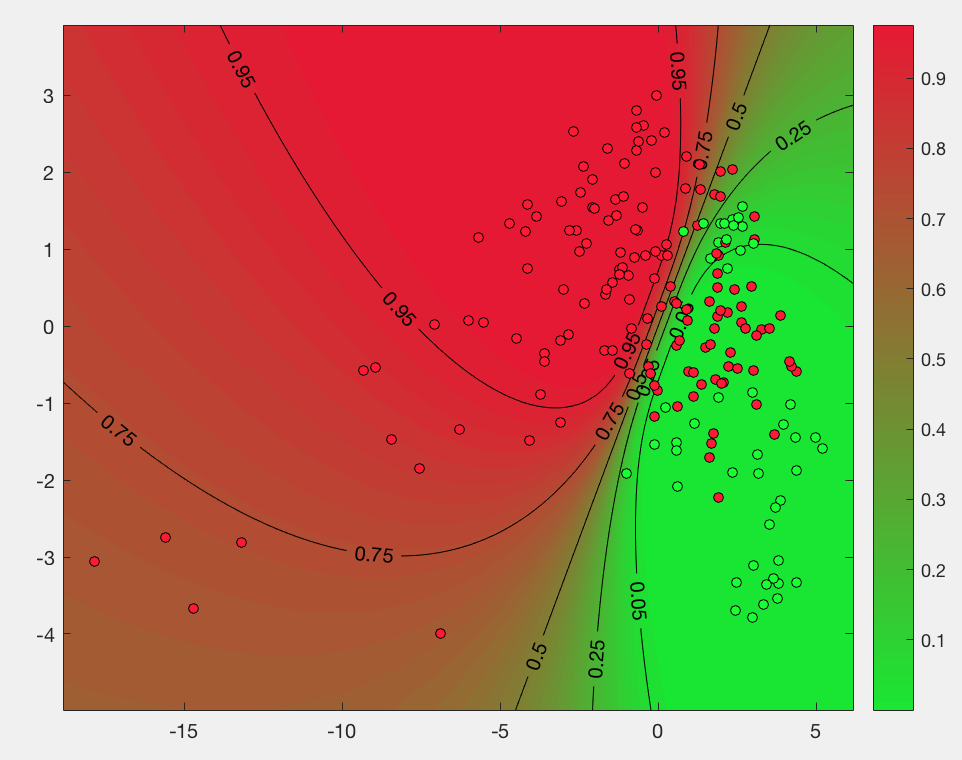
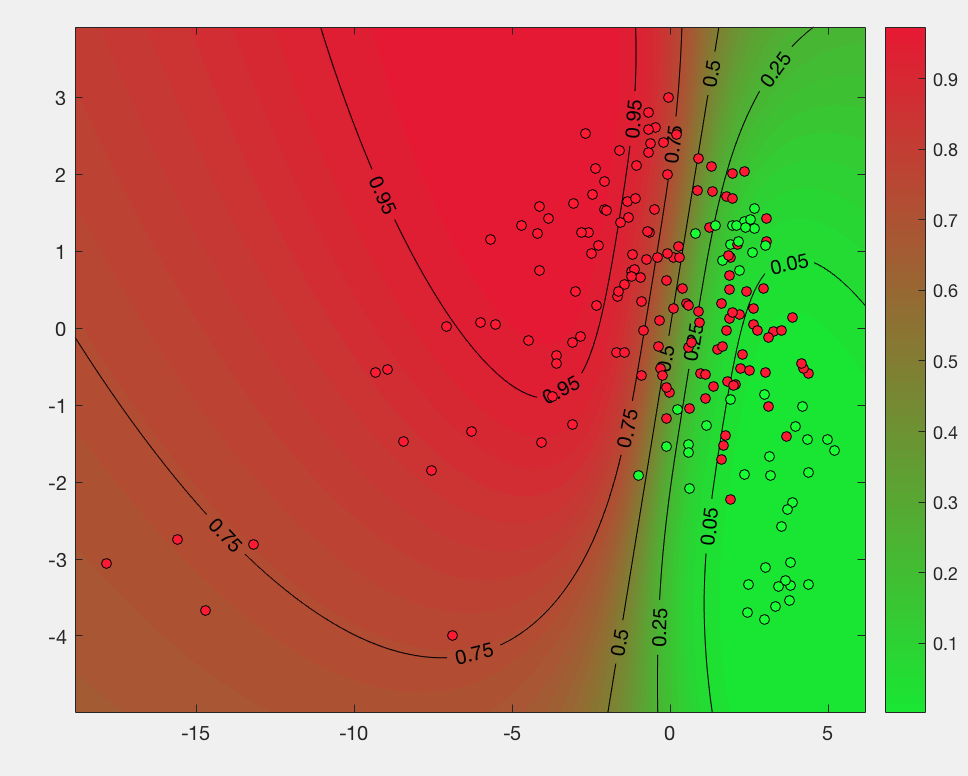
Finishes VB method + adds to CV + adds figure

diff --git a/methods/irls_cv.m b/methods/irls_cv.m
@@ -11,7 +11,7 @@ function irls_cv(dataset, is, fold)
 tt_ratio = 0.6;
 opt_names = {'unpenalized','L2'};
 l2_penalties = [0.01, 0.1, 1];
-n = 3+size(l2_penalties,2);
+n = 5+size(l2_penalties,2);
 f_measures = zeros(n,fold);
 roc_points = zeros(n,2);
 
@@ -40,11 +40,11 @@ end
 
 % Laplace approximation 
 laplax_prior.mean = zeros(is+1,1);
-laplax_prior.covmat = 1000*eye(is+1)+ 10*double([1:is+1]==11)'*double([1:is+1]==11) + 10*double([1:is+1]==14)'*double([1:is+1]==14);
+laplax_prior.covmat = 100*eye(is+1)+ 10*double([1:is+1]==11)'*double([1:is+1]==11) + 10*double([1:is+1]==14)'*double([1:is+1]==14);
 for f=1:fold
     [train_set,test_sest] = sample_train_test(dataset,tt_ratio);
-    [w,~] = laplax_normal(train_set,is,laplax_prior);
-    [fmeasure, roc] = cv_binary_classification(w, test_sest, 1, is);
+    [wL1,SL1] = laplax_normal(train_set,is,laplax_prior);
+    [fmeasure, roc] = cv_binary_classification(wL1, test_sest, 1, is);
     f_measures(iter,f) = fmeasure;
     roc_points(iter,:) = roc_points(iter,:) + [roc.TP,roc.FP]/fold;
 end
@@ -53,16 +53,36 @@ laplax_prior.covmat = 10*eye(is+1);
 iter = iter+1;
 for f=1:fold
     [train_set,test_sest] = sample_train_test(dataset,tt_ratio);
-    [w,~] = laplax_normal(train_set,is,laplax_prior);
+    [wL2,SL2] = laplax_normal(train_set,is,laplax_prior);
+    [fmeasure, roc] = cv_binary_classification(wL2, test_sest, 1, is);
+    f_measures(iter,f) = fmeasure;
+    roc_points(iter,:) = roc_points(iter,:) + [roc.TP,roc.FP]/fold;
+end
+iter = iter+1;
+% Variational Bayes (ELBO maximization)
+vb_prior.mean = zeros(is+1,1);
+vb_prior.covmat = 100*eye(is+1)+ 10*double([1:is+1]==11)'*double([1:is+1]==11) + 10*double([1:is+1]==14)'*double([1:is+1]==14);
+for f=1:fold
+    [train_set,test_sest] = sample_train_test(dataset,tt_ratio);
+    [w,~] = vb_normal(train_set,is,vb_prior,wL1,SL1,false);
+    [fmeasure, roc] = cv_binary_classification(w, test_sest, 1, is);
+    f_measures(iter,f) = fmeasure;
+    roc_points(iter,:) = roc_points(iter,:) + [roc.TP,roc.FP]/fold;
+end
+vb_prior.mean = zeros(is+1,1);
+vb_prior.covmat = 10*eye(is+1);
+iter = iter+1;
+for f=1:fold
+    [train_set,test_sest] = sample_train_test(dataset,tt_ratio);
+    [w,~] = vb_normal(train_set,is,vb_prior,wL2,SL2,false);
     [fmeasure, roc] = cv_binary_classification(w, test_sest, 1, is);
     f_measures(iter,f) = fmeasure;
     roc_points(iter,:) = roc_points(iter,:) + [roc.TP,roc.FP]/fold;
 end
 
-
 %% plots 
 figure('units','normalized','outerposition',[0 0 1 1])
-subplot(1,2,1); boxplot(f_measures','Labels',{'IRLS','RIDGE : 0.01','RIDGE = 0.1','RIDGE = 1','Laplace 1','Laplace 2'});
+subplot(1,2,1); boxplot(f_measures','Labels',{'IRLS','RIDGE : 0.01','RIDGE = 0.1','RIDGE = 1','Laplace 1','Laplace 2','VB 1','VB 2'});
 xlabel('Method');
 ylabel('F-measure statistics');
 title(strcat(num2str(fold),'-fold cross validation using F-measure'));
@@ -72,11 +92,10 @@ colors = jet(n);
 for i = 1:n
     plot(roc_points(i,2),roc_points(i,1),'o','MarkerSize',20, 'MarkerFaceColor',colors(i,:)); hold on;
 end
-
 axis([0 1 0 1]);
 xlabel('False Positive'); ylabel('True Positive');
 title('ROC curve');
-l = legend('IRLS','RIDGE, $\lambda_2 = 0.01$', 'RIDGE, $\lambda_2 = 0.1$','RIDGE, $\lambda_2 = 1$','Laplace 1','Laplace 2');
+l = legend('IRLS','RIDGE, $\lambda_2 = 0.01$', 'RIDGE, $\lambda_2 = 0.1$','RIDGE, $\lambda_2 = 1$','Laplace 1','Laplace 2','VB 1','VB 2');
 set(l,'Interpreter','latex');
 
 

diff --git a/methods/vb_normal.m b/methods/vb_normal.m
@@ -1,12 +1,76 @@
-function [wMap,Sn] = vb_normal(ds, is, prior)
+function [w,S] = vb_normal(ds, is, prior,wL,SL,plotflag)
 % <============ HEADER =============>
 % @brief    : computes the posterior approximation with Variational Bayes
-%             approach (assuming location scale prior)
+%             approach (assuming gaussian prior)
+%             approximating distribution : location-scale Gaussian 
 %             feature space is input space 
 % @params   : ds <- dataset
 %             is <- input vectors dimensionality
 %             prior <- {mean,covariance matrix} structure -- assuming
 %                       Gaussian prior for now 
+%             plotflag <- +1 for plot, 0 otherwise
 % @returns  : posterior distribution q
 % <============ HEADER =============>
 
+% Constants 
+n = size(ds,1);
+m = is+1;
+a = prior.mean;
+B = prior.covmat;
+sig = @(x) 1/(1+exp(-x));
+t   = ds(:,is+1);
+eps = 0.001;
+    % computes log(posterior)
+    function res = lpp(w)
+        y   = compute_output('logistic_sigmoid',w(1:is),w(is+1),ds(:,1:is),'linear');
+        res = -cross_entropy_loss_function(y,t) -0.5*m*log(2*pi*det(B)) - 0.5*(w-a)'*(B\(w-a));
+    end
+% computes p'/p (d/dtheta{log p})
+    function res = pP_o_p(x,w)
+        y       = compute_output('logistic_sigmoid',w(1:is),w(is+1),x(:,1:is),'linear');
+        res     = (-B\(w-a) + x'*(t-y));
+    end
+% computes d^2/dtheta(log p)
+    function res = pP2(x,w)
+       y = compute_output('logistic_sigmoid',w(1:is),w(is+1),x(:,1:is),'linear');
+       res = -x'*diag(y.*(1-y))*x - inv(B);
+    end
+
+% Initialize the location scale Gaussian approximation distribution 
+mu    = wL;
+Sigma = SL;
+
+% Optimization loop
+max_iter   = 10;
+num_sample = 100;
+phi = [ds(:,1:is),ones(n,1)];
+lr = 0.01;
+elbo = zeros(max_iter,1);
+for iter = 1:max_iter
+    samples = randn(m,num_sample);
+    dMu = zeros(m,1);
+    dSigma = zeros(m);
+    for i=1:num_sample
+       elbo(iter,1) = elbo(iter,1) - (1/num_sample) * (0.5*m*log(2*pi*det(Sigma*Sigma')) + 0.5*(samples(:,i)-mu)'*((Sigma*Sigma')\(samples(:,i)-mu))+ lpp(samples(:,i)));
+       dMu = dMu + pP_o_p(phi,mu + Sigma*samples(:,i))/num_sample;
+       dSigma = dSigma + (pP_o_p(phi,mu + Sigma*samples(:,i))*samples(:,i)')/num_sample;
+    end
+    mu = mu + lr*dMu;
+    Sigma = Sigma + 0.1*lr*(dSigma+inv(Sigma));
+    lr = lr * 0.99;
+end
+
+% ELBO plot
+if (plotflag)
+    figure;
+    plot(elbo(1:iter),'r-','LineWidth',2);
+    legend('ELBO');
+    title('ELBO stochastic maximization');
+end
+
+%% TODO : control over ELBOW
+w = mu;
+S = Sigma*Sigma';
+
+
+end

diff --git a/main.m b/main.m
@@ -18,31 +18,39 @@ ds = readtable(strcat(dataset_name,'.csv'));
 
 
 %% data visualization 
-visualize_data(ds, is);
+% visualize_data(ds, is);
 
 
 %% solution vizualisation
+
 % IRLS solution vizualisation 
 % ---------------------------
 % opt_up = struct('name','unpenalized','hp',[]);     % unpenalized IRLS
-% opt_L1 = struct('name','L1','hp',0.01);               % LASSO penalization
-% opt_L2 = struct('name','L2','hp',1);              % RIDGE penalization
+% opt_L1 = struct('name','L1','hp',0.01);            % LASSO penalization
+% opt_L2 = struct('name','L2','hp',1);               % RIDGE penalization
 % opt = opt_L1;
 % [w, prior, lc] = irls(ds, is, opt); 
 % visualize_solution(w(1:is), ds, is, lc, opt);
 % ---------------------------
+
 % ---------------------------
 % Bayesian learning and visualization
 % - - - - - - - - - - - - - - - - - -
+% defining a Gaussian prior 
+% prior.mean = zeros(is+1,1);
+% prior.covmat = 1*eye(is+1);%+ 10*double([1:is+1]==11)'*double([1:is+1]==11); + 10*double([1:is+1]==14)'*double([1:is+1]==14);
+
 % laplace approximation for posterior
 % - - - - - - - - - - - - - - - - - -
-% laplax_prior.mean = zeros(is+1,1);
-% laplax_prior.covmat = 10*eye(is+1);%+ 10*double([1:is+1]==11)'*double([1:is+1]==11) + 10*double([1:is+1]==14)'*double([1:is+1]==14);
-% [w,S] = laplax_normal(ds,is,laplax_prior);
-% visualize_pdb(ds,w,S,is)                  % Visualization  (predictive distribution)
+% [wL,SL] = laplax_normal(ds,is,prior);
+% visualize_pdb(ds,wL,SL,is)                  % Visualization  (predictive distribution)
 % - - - - - - - - - - - - - - - - - -
-% grid based posterior 
+% Variational Bayes 
 % - - - - - - - - - - - - - - - - - -
+%tic
+% [w,S] = vb_normal(ds, is, prior, wL, SL, true);
+%toc
+% visualize_pdb(ds,w,S,is)
 % - - - - - - - - - - - - - - - - - -
 % Expectation-propagation
 % - - - - - - - - - - - - - - - - - -
@@ -50,7 +58,7 @@ visualize_data(ds, is);
 
 
 %% F-fold CV  
-fold = 200;
+fold = 100;
 % irls cross-validation 
 % ---------------------------
 irls_cv(ds, is, fold);

diff --git a/methods/laplax_normal.m b/methods/laplax_normal.m
@@ -19,7 +19,7 @@ outp  = @(w) compute_output('logistic_sigmoid',w(1:is),w(is+1),ds(:,1:is),'linea
 max_iter = 10;
 lr = 1;
 w = zeros(is+1,1);
-eps = 0.001;
+eps = 0.1;
 for i=1:max_iter
    X = [ds(:,1:is),ones(size(ds,1),1)]; y = outp(w); t = ds(:,is+1);    % design - pred - labels 
    H = X'*diag(y.*(1-y))*X;                                             % full hessian
